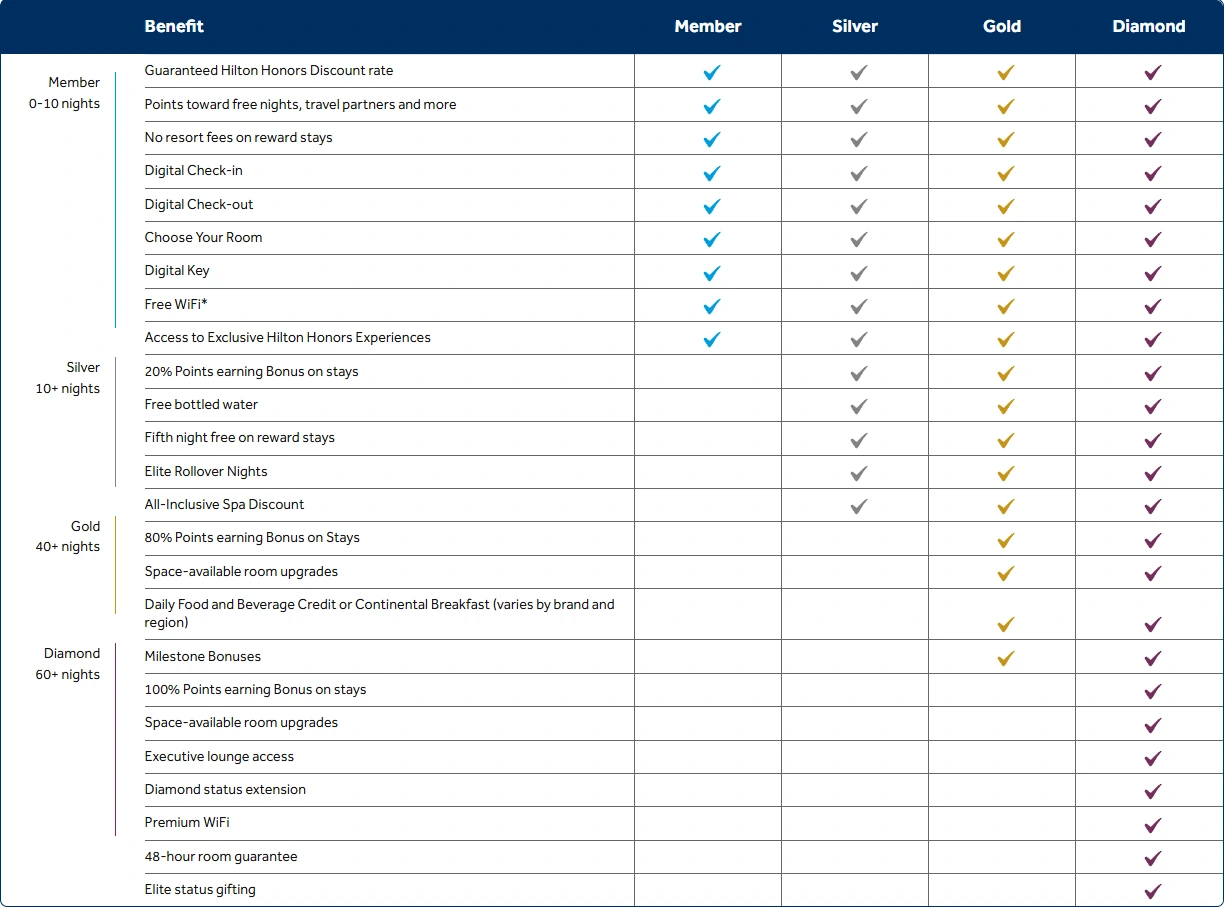
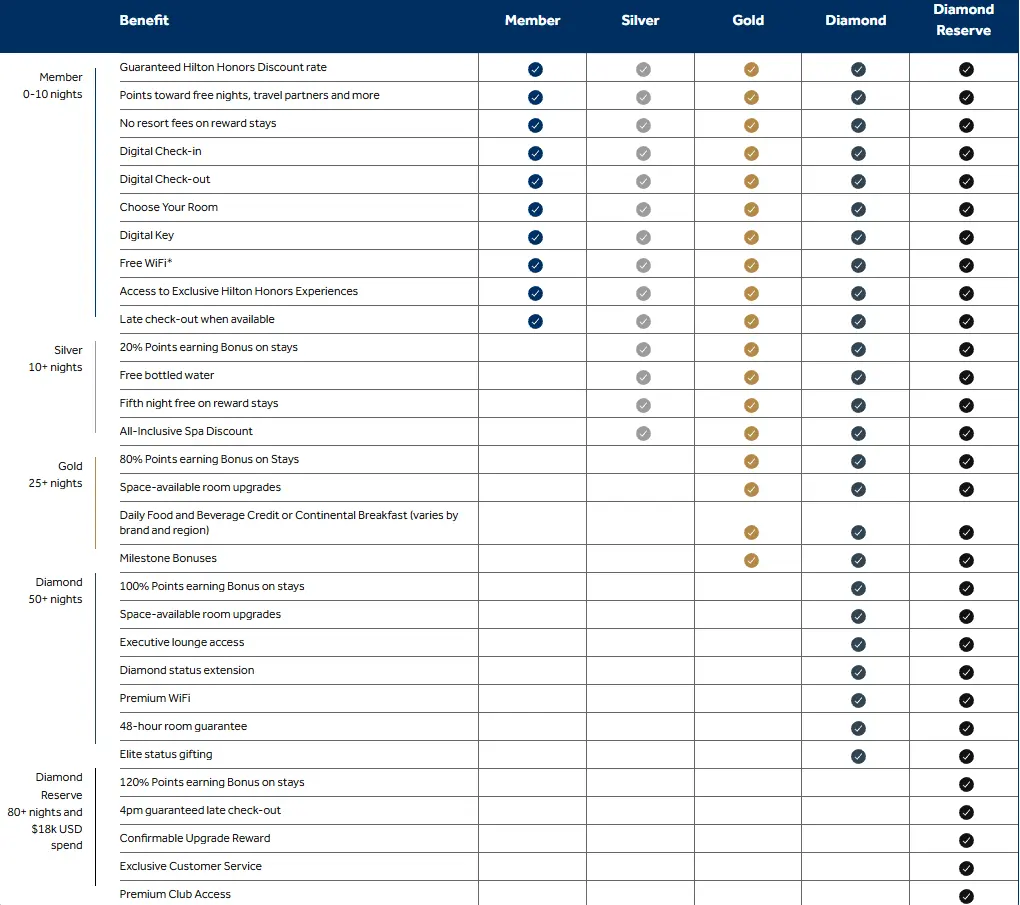
2026 updates

Changed region(s): [[0.0, 0.0, 1.0, 1.0], [0.5167, 0.4641, 0.5775, 0.5569], [0.4559, 0.4641, 0.4863, 0.5569]]

diff --git a/Hotels/IHG_Guide/index.html b/Hotels/IHG_Guide/index.html
@@ -79,7 +79,10 @@
                             <a href="#elitestatus--ambassador"> InterContinental Ambassador</a>
                         </li>
                         <li>
-                            <a href="#elitestatus--invite">Rollover Elite Nights</a>
+                            <a href="#elitestatus--royal"> InterContinental Royal Ambassador</a>
+                        </li>
+                        <li>
+                            <a href="#elitestatus--kimpton"> Kimpton Inner Circle</a>
                         </li>
                         <li>
                             <a href="#elitestatus--rollover">Rollover Elite Nights</a>
@@ -96,16 +99,10 @@
                     <a href="#cc">IHG Credit Cards</a>
                     <ol>
                         <li>
-                            <a href="#cc--basic">IHG</a>
+                            <a href="#cc--basic">IHG One Traveler</a>
                         </li>
                         <li>
-                            <a href="#cc--surpass">IHG Surpass</a>
-                        </li>
-                        <li>
-                            <a href="#cc--aspire">IHG Aspire</a>
-                        </li>
-                        <li>
-                            <a href="#cc--business">IHG Business</a>
+                            <a href="#cc--premier">IHG One Rewards Premier and Premier Business </a>
                         </li>
                     </ol>
                 </li>
@@ -116,7 +113,7 @@
             <div class="words">
                 <h1>Ultimate Guide to IHG Hotels</h1>
                 <p class="post-meta">
-                    <i>January 09, 2025 by Worldly Express </i>
+                    <i>January 10, 2025 by Worldly Express </i>
                 </p>
                 <p>
                     I'm not sure why, but I have an unfounded love towards the Dove bathroom products
@@ -283,40 +280,41 @@
                     <h2> IHG Elite Status</h2>
                     <section id="elitestatus--benefits">
                         <h3>Elite Status Requirements and Benefits</h3>
-                        <p>
-                            <img src="/assets/IHG Guide/IHG-elite-status.webp"> <br><br>
-                            IHG has 3 basic tiers of elite status after general members. Each tier could be earned with
-                            either enough points accumulated or nights stayed in a year.
-                            Just like all major hotel groups, elite nights and points are only earned when booking
-                            direct or through portals like Amex FHR and Chase the Edit. It is
-                            my opinion that the easiest way to qualify for IHG elite status is to hold the applicable credit card.
-                            <br><br>
-                            Platinum status is the highest status to achieve only by holding a credit card. The status 
-                            is the first status that allows for complimentary upgrades and early check-in.
-                            Other benefits I value are as below: <br>
-                        <ul>
-                            <li>
-                                Free Breakfast (Diamond Status only)
-                            </li>
-                            <li>
-                                Free Bottled Water (I know it's odd but I hate paying for water and some hotels don't
-                                have water fountains.)
-                            </li>
-                            <li>
-                                Rewards Nights Discount
-                            </li>
-                            <li>
-                                Complimentary Upgrades (subject to availability)
-                            </li>
-                            <li>
-                                Late Check-Out (subject to availability)
-                            </li>
-                            <li>
-                                Early Check-In (subject to availability)
-                            </li>
-                        </ul>
-                        </p>
-
+                            <p>
+                                <img src="/assets/IHG Guide/IHG-elite-status.webp"> <br><br>
+                                IHG has 3 basic tiers of elite status after general members. Each tier could be earned with
+                                either enough points accumulated or nights stayed in a year.
+                                Just like all major hotel groups, elite nights and points are only earned when booking
+                                direct or through portals like Amex FHR and Chase the Edit. It is
+                                my opinion that the easiest way to qualify for IHG elite status is to hold the applicable credit card.
+                                <br><br>
+                                Platinum status is the highest status to achieve only by holding a credit card. The status 
+                                is the first status that allows for complimentary upgrades and early check-in.
+                                Other benefits I value are as below: <br>
+                                <ul>
+                                    <li>
+                                        Free Breakfast (Diamond Status only)
+                                    </li>
+                                    <li>
+                                        Free Bottled Water (I know it's odd but I hate paying for water and some hotels don't
+                                        have water fountains.)
+                                    </li>
+                                    <li>
+                                        Rewards Nights Discount
+                                    </li>
+                                    <li>
+                                        Complimentary Upgrades (subject to availability)
+                                    </li>
+                                    <li>
+                                        Late Check-Out (subject to availability)
+                                    </li>
+                                    <li>
+                                        Early Check-In (subject to availability)
+                                    </li>
+                                </ul>
+                            </p>
+                        </section>
+                        <section id="elitestatus--ambassador">
                         <h3>InterContinental Ambassador</h3>
                         <p>
                             InterContinental Ambassador program is a paid program that will offer perks for a fee.
@@ -365,8 +363,10 @@
                                 </li>
                             </ul>
                         </p>
+                        </section>
 
-                        <h3>InterContinental Royal Ambassador</h3>
+                        <section id="elitestatus--royal">
+                            <h3>InterContinental Royal Ambassador</h3>
                         <p>
                             Different from the regular Ambassador program, the Royal Ambassador program is invitation only.
                             This is an invitation only status so requirements for invitation are not clear.
@@ -400,7 +400,7 @@
                                     Welcome amenity (choice of fruit or sweet or savory snack on day of arrival)
                                 </li>
                                 <li>
-                                    <b>Complimentary mineral water</b>
+                                    Complimentary mineral water
                                 </li>
                                 <li>
                                     Waived amenity and destination fees but not resort fees.
@@ -414,43 +414,46 @@
                                 
                             </ul>
                         </p>
-
-                        <h3>Kimpton Inner Circle</h3>
-                        <p>
-                            For the most loyal of Kimpton hotel fans, Kimpton offers a Kimpton Inner Circle status. This is an invitation only status 
-                            so requirements for invitation are not clear. However, one must at least be a diamond member to qualify. The benefits for 
-                            staying at a Kimpton Hotel are listed below:
-                            <ul>
-                                <li>
-                                    Inner Circle Amenity
-                                </li>
-                                <li>
-                                    Complimentary Chef’s Taste
-                                </li>
-                                <li>
-                                    Complimentary Night at New Hotels
-                                </li>
-                                <li>
-                                    Premium internet
-                                </li>
-                                <li>
-                                    VIP Dedicated Phone Line
-                                </li>
-                                <li>
-                                    Guaranteed 1 category room upgrade
-                                </li>
-                                <li>
-                                    Guaranteed 10 am early check-in
-                                </li>
-                                <li>
-                                    Guaranteed 4 pm late check-out
-                                </li>
-                                <li>
-                                    Waived amenity and destination fees but not resort fees.
-                                </li>
-                            </ul>
-                        </p>
+                        </section>
+                        
+                        <section id="elitestatus--kimpton">
+                            <h3>Kimpton Inner Circle</h3>
+                                <p>
+                                    For the most loyal of Kimpton hotel fans, Kimpton offers a Kimpton Inner Circle status. This is an invitation only status 
+                                    so requirements for invitation are not clear. However, one must at least be a diamond member to qualify. The benefits for 
+                                    staying at a Kimpton Hotel are listed below:
+                                    <ul>
+                                        <li>
+                                            Inner Circle Amenity
+                                        </li>
+                                        <li>
+                                            Complimentary Chef’s Taste
+                                        </li>
+                                        <li>
+                                            Complimentary Night at New Hotels
+                                        </li>
+                                        <li>
+                                            Premium internet
+                                        </li>
+                                        <li>
+                                            VIP Dedicated Phone Line
+                                        </li>
+                                        <li>
+                                            Guaranteed 1 category room upgrade
+                                        </li>
+                                        <li>
+                                            Guaranteed 10 am early check-in
+                                        </li>
+                                        <li>
+                                            Guaranteed 4 pm late check-out
+                                        </li>
+                                        <li>
+                                            Waived amenity and destination fees but not resort fees.
+                                        </li>
+                                    </ul>
+                                </p>
                     </section>
+                        
                     <section id="elitestatus--rollover">
                         <h3>Rollover Elite Nights</h3>
                         <p>
@@ -491,7 +494,7 @@
                         </p>
                     </section>
                     <section id="elitestatus--instantStatus">
-                        <h3>Status Match </h3>
+                        <h3>Instant Status</h3>
                         <p>
                             IHG offers <a href="https://www.ihg.com/content/us/en/deals/b2b/fasttracktostatus2025">instant status
                             </a> . For the rest of the year, earn IHG One Silver status. If you stay at least 5 nights this year, 

diff --git a/Hotels/Hilton_Guide/index.html b/Hotels/Hilton_Guide/index.html
@@ -119,7 +119,7 @@
             <div class="words">
                 <h1>Ultimate Guide to Hilton Hotels</h1>
                 <p class="post-meta">
-                    <i>March 27, 2025 by Worldly Express </i>
+                    <i>January 10, 2025 by Worldly Express </i>
                 </p>
                 <p>
                     For those that travel less than 5 times a year,
@@ -169,7 +169,7 @@
                         <h3>Hilton Stays</h3>
                         <p>
                             The Hilton points earning rate is based on the amount of money spent, 
-                            with the budget brands Home 2 Suites and Tru Hotels
+                            with the budget brands Home2 Suites, Tru Hotels, Homewood Suites, and Spark hotels
                             earning half of what other brands earn, as shown below.<br><br>
                             <img src="/assets/Hilton Guide/point-earning.webp"> <br><br>
 
@@ -317,8 +317,13 @@
                     <section id="elitestatus--requirements">
                         <h3>Elite Status Requirements</h3>
                         <p>
-                            Hilton has 3 tiers of elite status after general members. Each tier could be earned with
-                            either enough points, stays, or nights in a year.
+                            Hilton now has 4 tiers of elite status after general members. 
+                            Here are the requirements to earn each status tier:<br><br>
+                            <b>Silver:</b> 10 nights, 4 stays or $2,500 USD spend<br>
+                            <b>Gold:</b> 25 nights, 15 stays, or $6,000 USD spend<br>
+                            <b>Diamond:</b> 50 nights, 25 stays, or $11,500 USD spend<br>
+                            <b>Diamond Reserve:</b> 80 nights or 40 stays, and $18,000 USD annual eligible spend<br><br>
+
                             Just like all major hotel groups, elite nights and points are only earned when booking
                             direct or through portals like Amex FHR and Chase the Edit. It is
                             my opinion that the easiest way to qualify for Hilton elite status is to hold the applicable credit card.
@@ -329,7 +334,9 @@
                         <h3>Elite Status Benefits</h3>
                         <p>
                             <img src="/assets/Hilton Guide/Hilton-elite-status.webp"> <br><br>
-                            Gold is the sweet spot to receive the food and beverage credit.
+                            Gold is the sweet spot to receive the food and beverage credit. The 4 pm guaranteed late check-out 
+                            from Diamond Reserve is a great perk, but being locked behind a paywall of $18,000 makes it unappealing 
+                            to seek after.
                             Other benefits I value are as below: <br>
                         <ul>
                             <li>
@@ -358,13 +365,11 @@
                                 href="https://help.hilton.com/s/article/How-do-I-become-a-Lifetime-Diamond-Member">lifetime
                                 status</a>.
                             Lifetime diamond status is earned by being a diamond member for <b>10</b> years and either earning 
-                            2 million base points or
-                            1000 paid/<b>award</b> nights. To earn 2 million base points, spend $200,000 on
-                            Hilton hotels (excluding Tru and Home 2 Suites brands).
-                            Counting award stays is a pretty nice gesture towards those in the points and miles
-                            game!
+                            2 million base points or $200,000 in Hilton stays.
                         </p>
                     </section>
+
+                    
                     <section id="elitestatus--rollover">
                         <h3>Rollover Elite Nights</h3>
                         <p>
@@ -379,6 +384,8 @@
                             After reaching 40 elite nights, earn 10,000 bonus points. For every 10 elite nights
                             after that, earn another
                             10,000 bonus points. At 60 elite nights specifically, earn 30,000 bonus points instead.
+                            At 120 elite nights specifically, earn either 30,000 bonus points or a confirmable 
+                            upgrade rewards.
                             Honestly, pretty lackluster
                             considering the other hotel program milestone rewards can give guaranteed suite
                             upgrade certificates.

diff --git a/index.html b/index.html
@@ -27,7 +27,7 @@
           <h2>
             <a href="/Hotels/IHG_Guide/">Ultimate Guide to IHG Hotels</a>
           </h2>
-          <p class="post-meta">January 09, 2026 by Worldly Express</p>
+          <p class="post-meta">January 10, 2026 by Worldly Express</p>
         </div>
       </article>
       <article>
@@ -38,9 +38,31 @@
           <h2>
             <a href="/Airlines/United_Airlines_Guide/">Ultimate Guide to United Airlines</a>
           </h2>
-          <p class="post-meta">November 18, 2025 by Worldly Express</p>
+          <p class="post-meta">January 10, 2026 by Worldly Express</p>
         </div>
       </article>
+            <article>
+        <div class="words">
+          <a href="/Hotels/Hilton_Guide/">
+            <img src="/assets/Hilton Guide/Hilton-logo.webp" alt="Hilton Logo">
+          </a>
+          <h2>
+            <a href="/Hotels/Hilton_Guide/">Ultimate Guide to Hilton Hotels</a>
+          </h2>
+          <p class="post-meta">January 10, 2026 by Worldly Express</p>
+        </div>
+
+      </article>
+      <article>
+        <div class="words">
+          <a href="/Airlines/Delta_Airlines_Guide/">
+            <img src="/assets/Delta Guide/Delta-Logo.webp" alt="Delta Logo">
+          </a>
+          <h2>
+            <a href="/Airlines/Delta_Airlines_Guide/">Ultimate Guide to Delta Airlines</a>
+          </h2>
+          <p class="post-meta">January 10, 2026 by Worldly Express</p>
+        </div>
       <article>
         <div class="words">
           <a href="/Articles/Best_Use_of_Capital_One_Miles/">
@@ -84,28 +106,6 @@
           </div>
         </div>
       </article> -->
-      <article>
-        <div class="words">
-          <a href="/Hotels/Hilton_Guide/">
-            <img src="/assets/Hilton Guide/Hilton-logo.webp" alt="Hilton Logo">
-          </a>
-          <h2>
-            <a href="/Hotels/Hilton_Guide/">Ultimate Guide to Hilton Hotels</a>
-          </h2>
-          <p class="post-meta">March 27, 2025 by Worldly Express</p>
-        </div>
-
-      </article>
-      <article>
-        <div class="words">
-          <a href="/Airlines/Delta_Airlines_Guide/">
-            <img src="/assets/Delta Guide/Delta-Logo.webp" alt="Delta Logo">
-          </a>
-          <h2>
-            <a href="/Airlines/Delta_Airlines_Guide/">Ultimate Guide to Delta Airlines</a>
-          </h2>
-          <p class="post-meta">February 02, 2024 by Worldly Express</p>
-        </div>
 
       </article>
       <article>

diff --git a/Airlines/Delta_Airlines_Guide/index.html b/Airlines/Delta_Airlines_Guide/index.html
@@ -141,7 +141,7 @@
             <div class="words">
                 <h1>Ultimate Guide to Delta Airlines</h1>
                 <p class="post-meta">
-                    <i>February 02, 2025 by Worldly Express </i>
+                    <i>January 10, 2026 by Worldly Express </i>
                 </p>
                 <p>
                     Delta SkyMiles, the most profitable airline in the world. Despite its award program being known as
